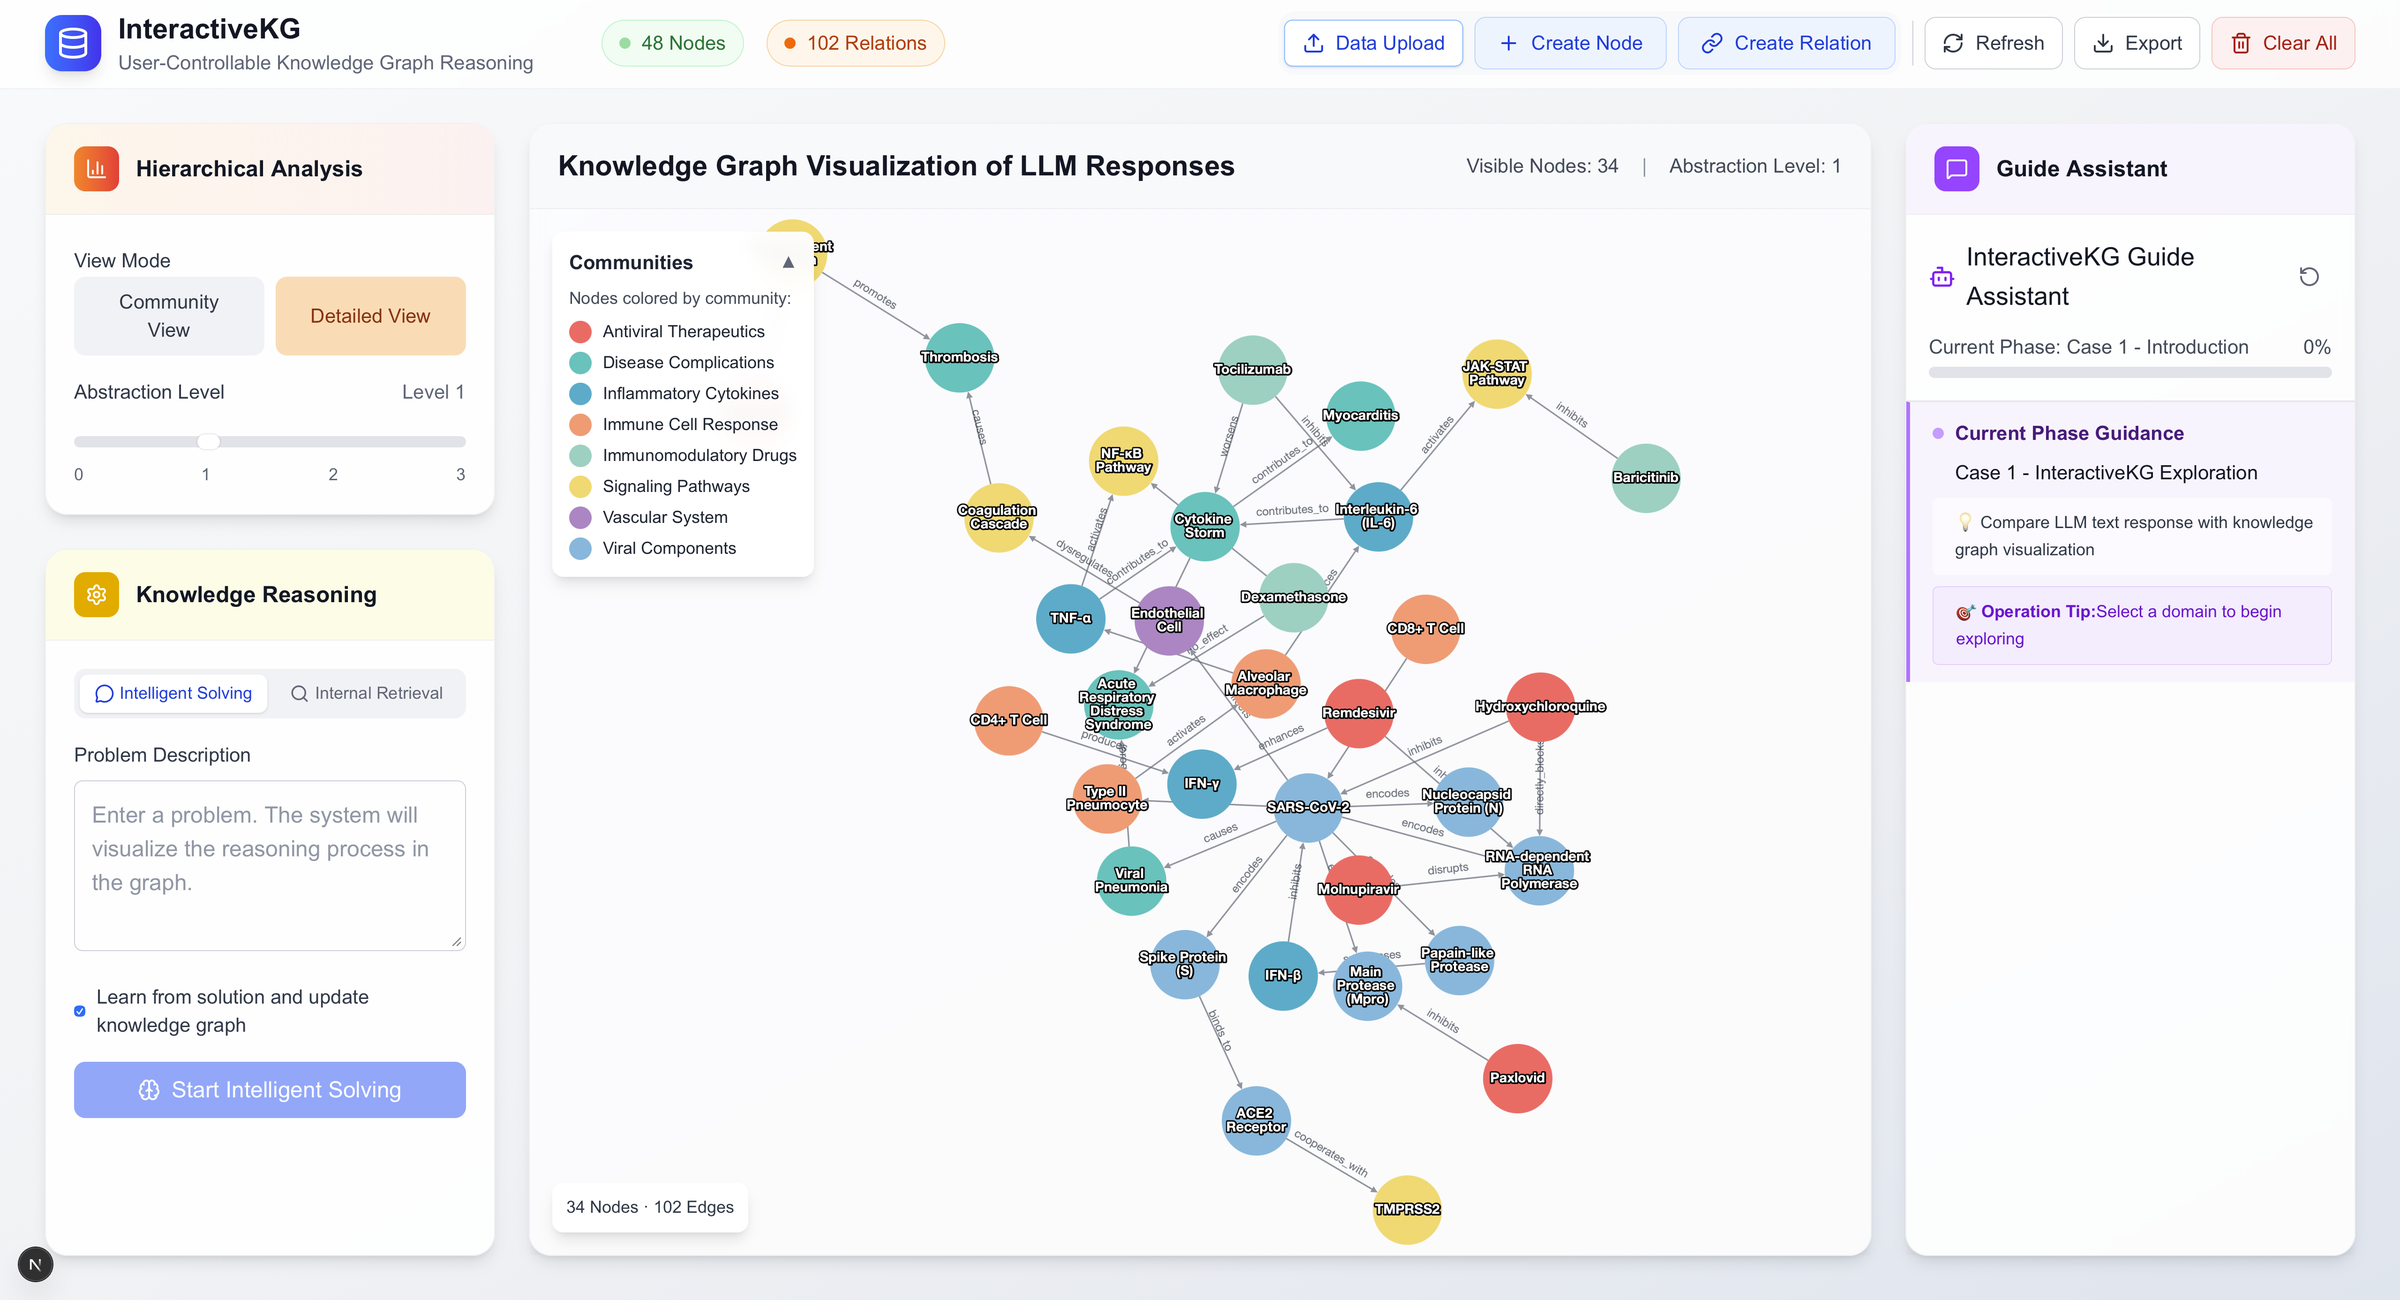
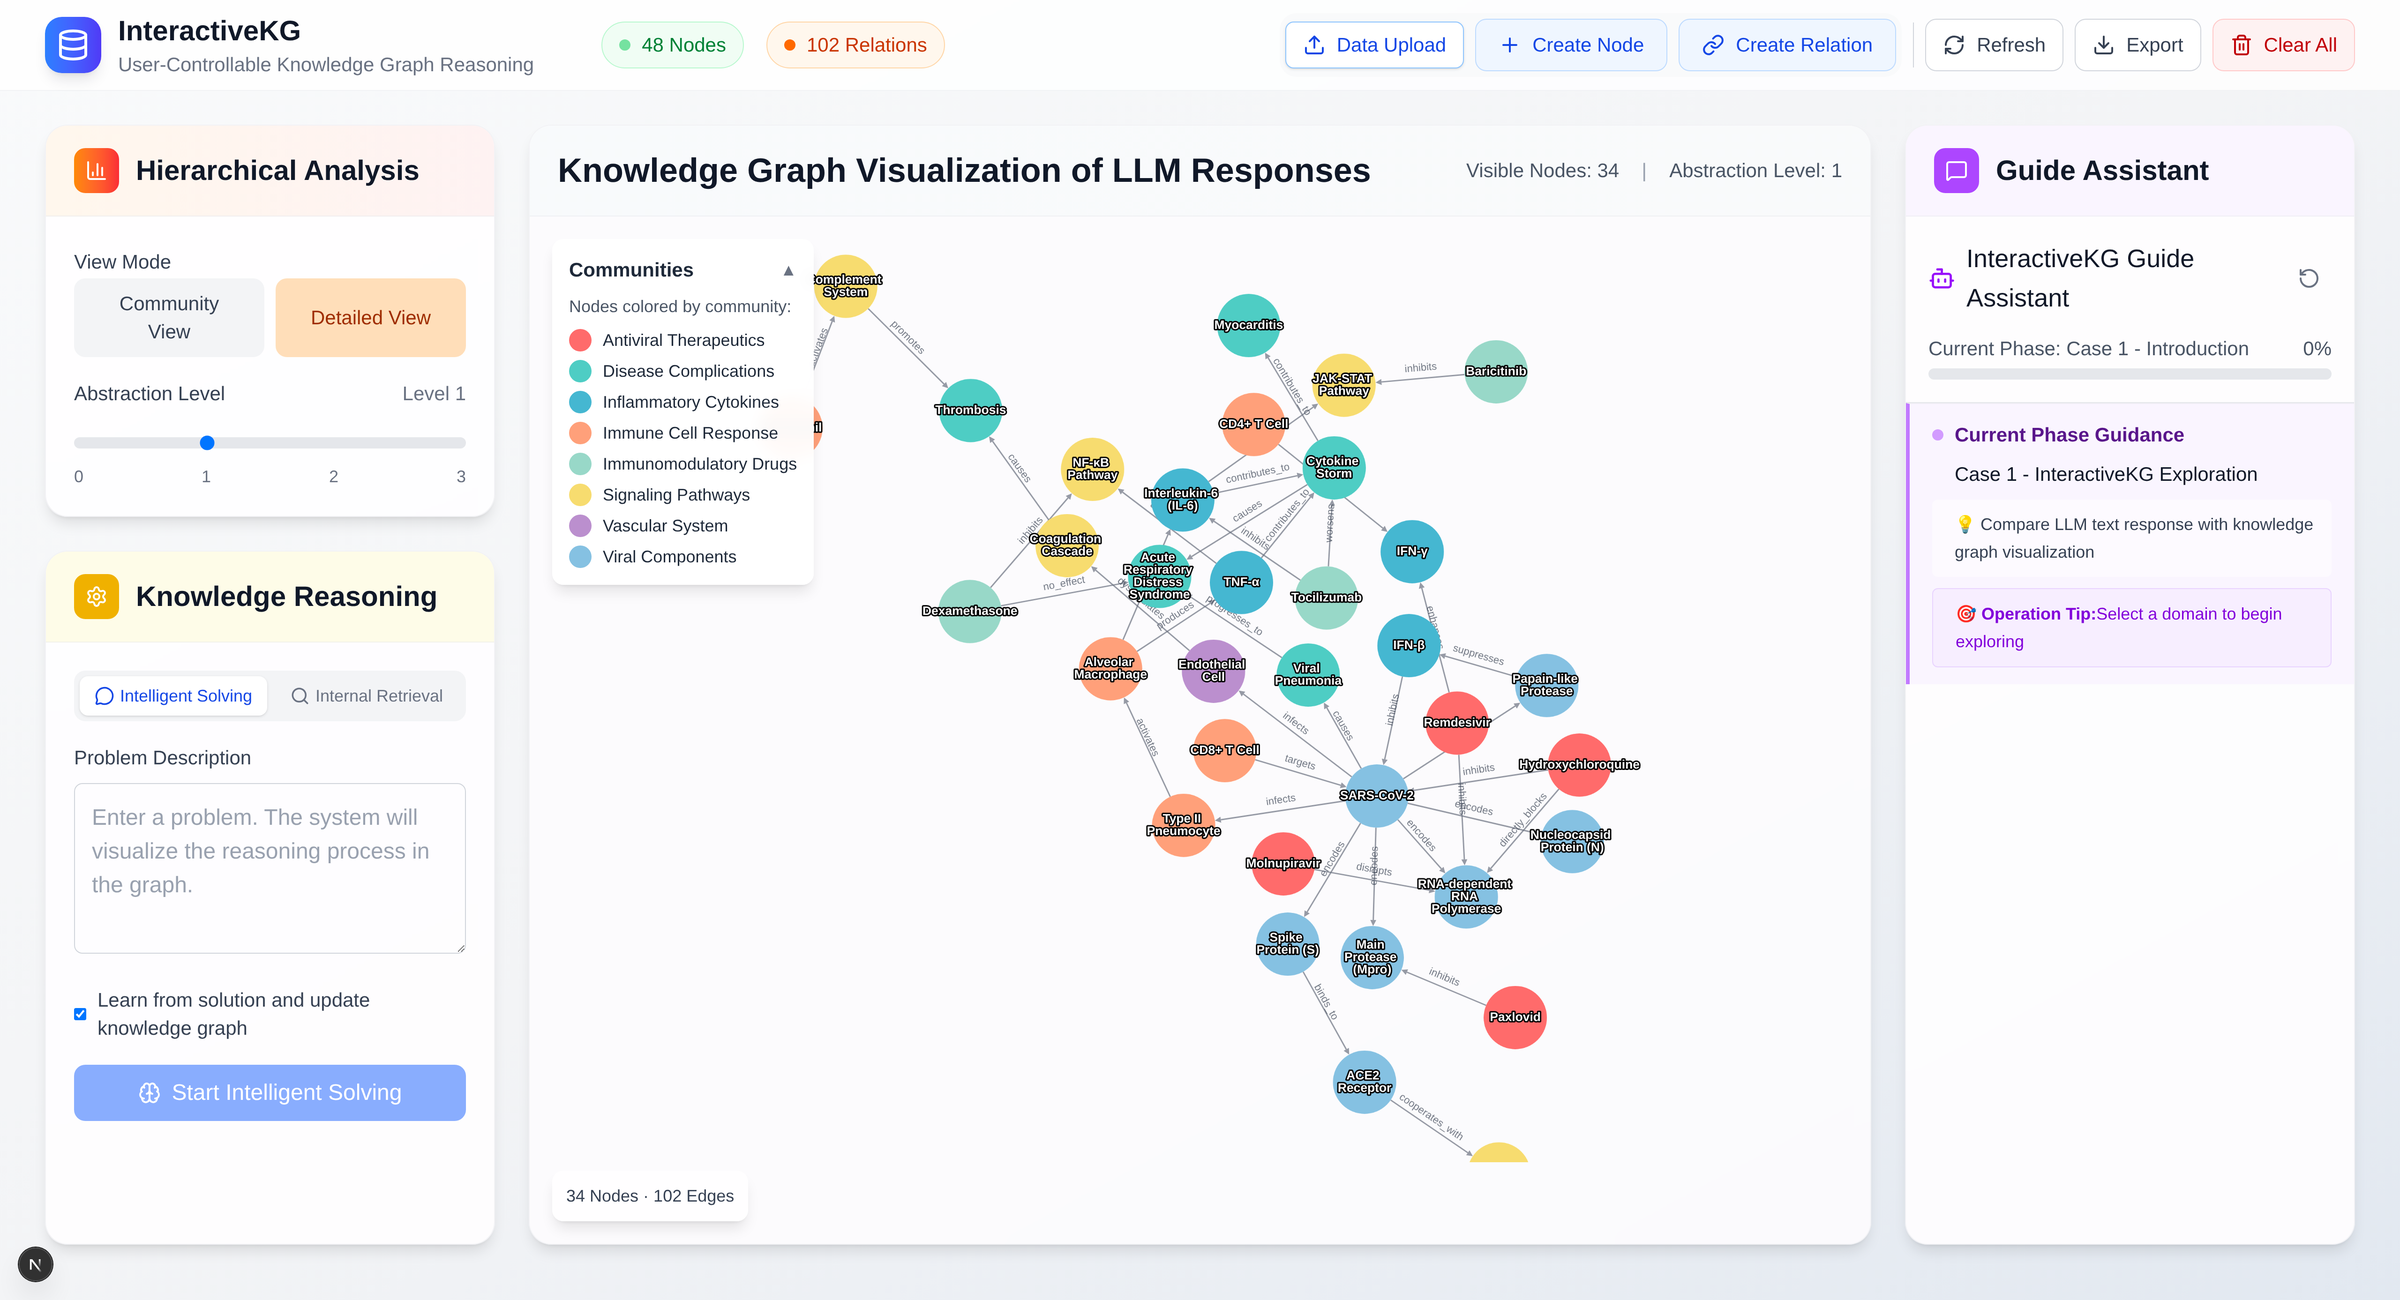
Emphasize panel titles; keep the global scale at its proven step
- Panel titles raised to text-xl and the canvas title to text-2xl with
  nowrap (text-3xl wrapped both the title and the header counters)
- Global root scale stays at 20px/24px: the 22/28 experiment wrapped the
  app header into two rows and forced a page scrollbar
- The lg column height budget is now rem-based (100vh - 8rem) so the fixed
  180px offset no longer overflows when the root font scales
- README hero refreshed with the final capture

diff --git a/InteractiveKG/frontend/src/app/page.tsx b/InteractiveKG/frontend/src/app/page.tsx
@@ -448,7 +448,7 @@ export default function Home() {
 
       {}
       <main className="max-w-full mx-auto px-4 lg:px-8 py-6">
-        <div className="flex flex-col lg:flex-row gap-6 lg:h-[calc(100vh-180px)]">
+        <div className="flex flex-col lg:flex-row gap-6 lg:h-[calc(100vh-8rem)]">
           {}
           <div className="w-full lg:w-72 xl:w-80 flex flex-col space-y-6 lg:h-full">
             {}
@@ -458,7 +458,7 @@ export default function Home() {
                   <div className="h-8 w-8 bg-gradient-to-r from-orange-400 to-red-500 rounded-lg flex items-center justify-center">
                     <BarChart3 className="h-4 w-4 text-white" />
                   </div>
-                  <h3 className="text-base font-semibold text-gray-900">Hierarchical Analysis</h3>
+                  <h3 className="text-xl font-semibold text-gray-900">Hierarchical Analysis</h3>
                 </div>
               </div>
               <div className="p-5">
@@ -484,7 +484,7 @@ export default function Home() {
                   <div className="h-8 w-8 bg-yellow-500 rounded-lg flex items-center justify-center">
                     <Settings className="h-4 w-4 text-white" />
                   </div>
-                  <h3 className="text-base font-semibold text-gray-900">Knowledge Reasoning</h3>
+                  <h3 className="text-xl font-semibold text-gray-900">Knowledge Reasoning</h3>
                 </div>
               </div>
               <div className="p-5 lg:flex-1 lg:min-h-0 lg:overflow-y-auto custom-scrollbar">
@@ -506,8 +506,8 @@ export default function Home() {
             <div className="bg-white/90 backdrop-blur-sm rounded-2xl shadow-lg border border-gray-200/50 h-[60vh] lg:h-full overflow-hidden flex flex-col">
               <div className="px-5 py-4 border-b border-gray-200/50 bg-gradient-to-r from-slate-50 to-gray-50">
                 <div className="flex items-center justify-between">
-                  <h2 className="text-xl font-semibold text-gray-900">Knowledge Graph Visualization of LLM Responses</h2>
-                  <div className="flex items-center space-x-4 text-sm text-gray-600">
+                  <h2 className="text-2xl font-semibold text-gray-900 whitespace-nowrap">Knowledge Graph Visualization of LLM Responses</h2>
+                  <div className="flex items-center space-x-4 text-sm text-gray-600 whitespace-nowrap">
                     <span>Visible Nodes: {showFullView ? graphData.nodes.length : calculateVisibleNodes()}</span>
                     <span className="text-gray-400">|</span>
                     <span>Abstraction Level: {showFullView ? 1 : hierarchicalAbstractionLevel}</span>
@@ -556,7 +556,7 @@ export default function Home() {
                   <div className="h-8 w-8 bg-purple-500 rounded-lg flex items-center justify-center">
                     <MessageSquare className="h-4 w-4 text-white" />
                   </div>
-                  <h3 className="text-base font-semibold text-gray-900">Guide Assistant</h3>
+                  <h3 className="text-xl font-semibold text-gray-900">Guide Assistant</h3>
                 </div>
               </div>
               <div className="flex-1 min-h-0">
